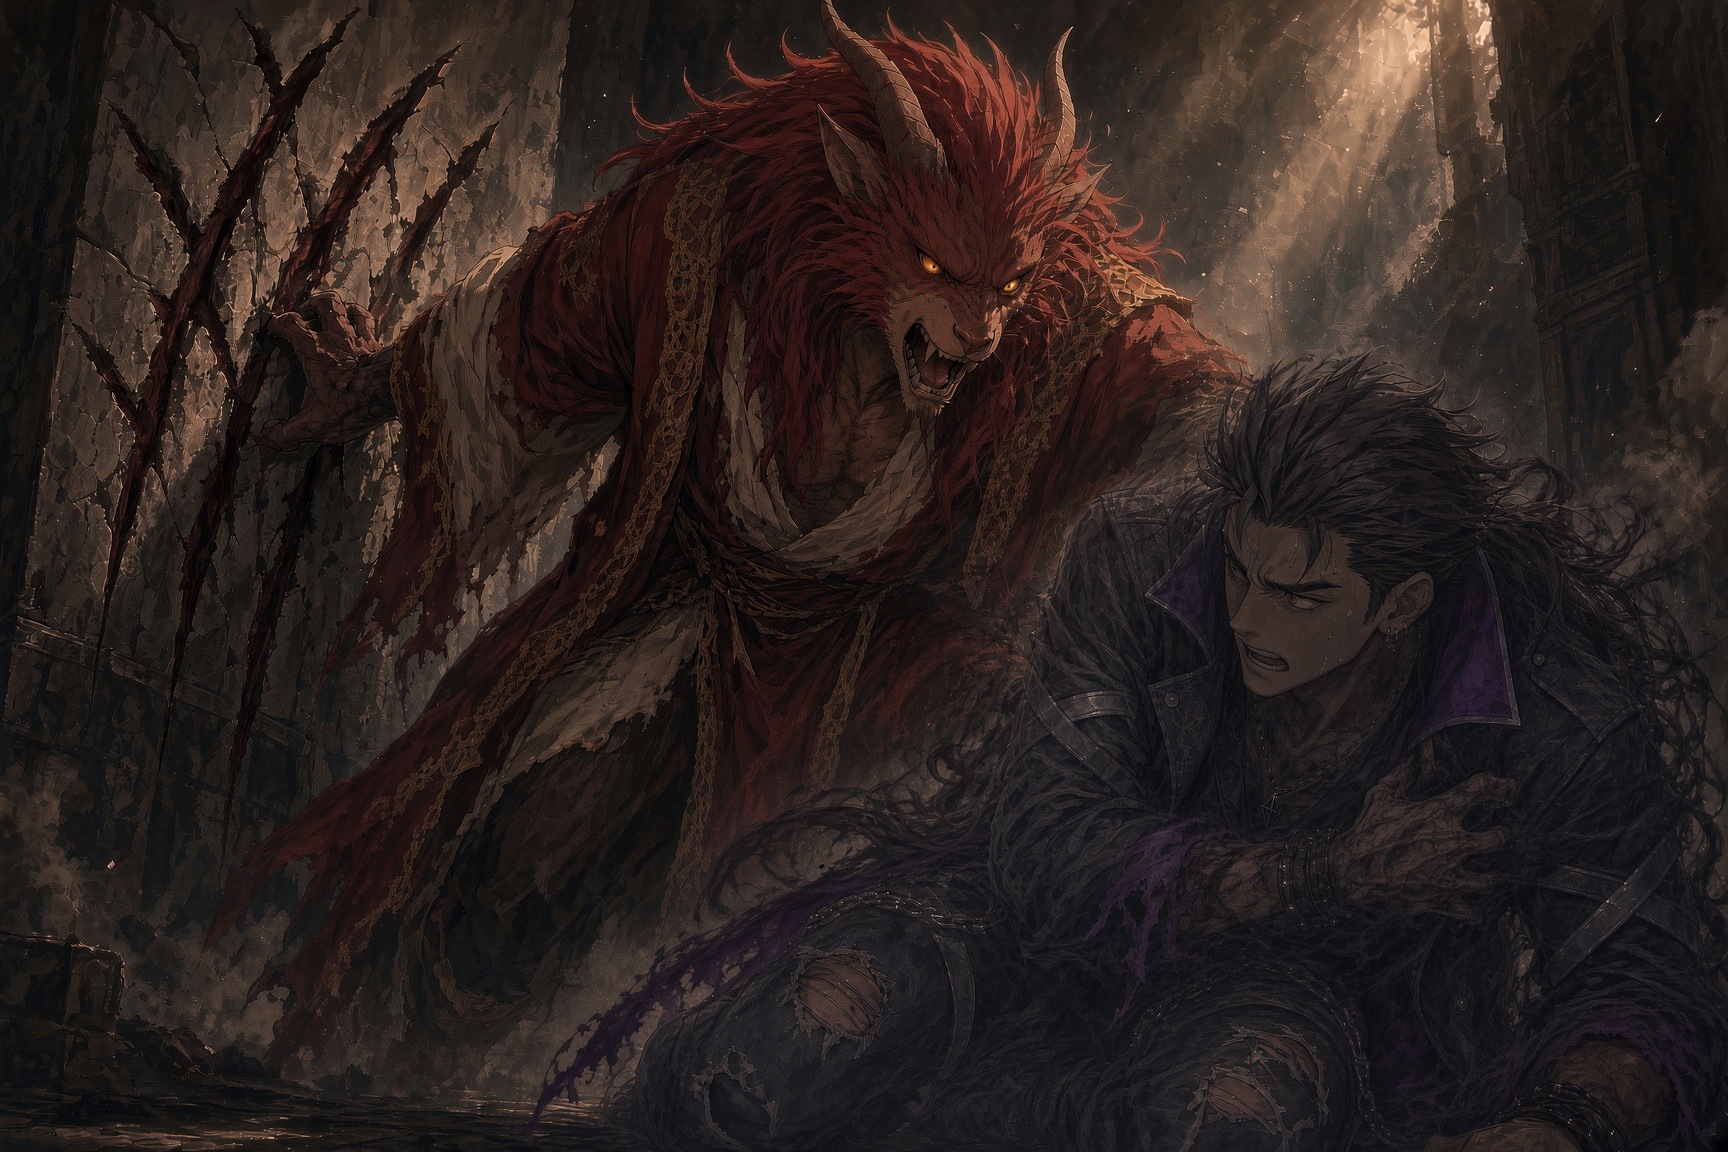
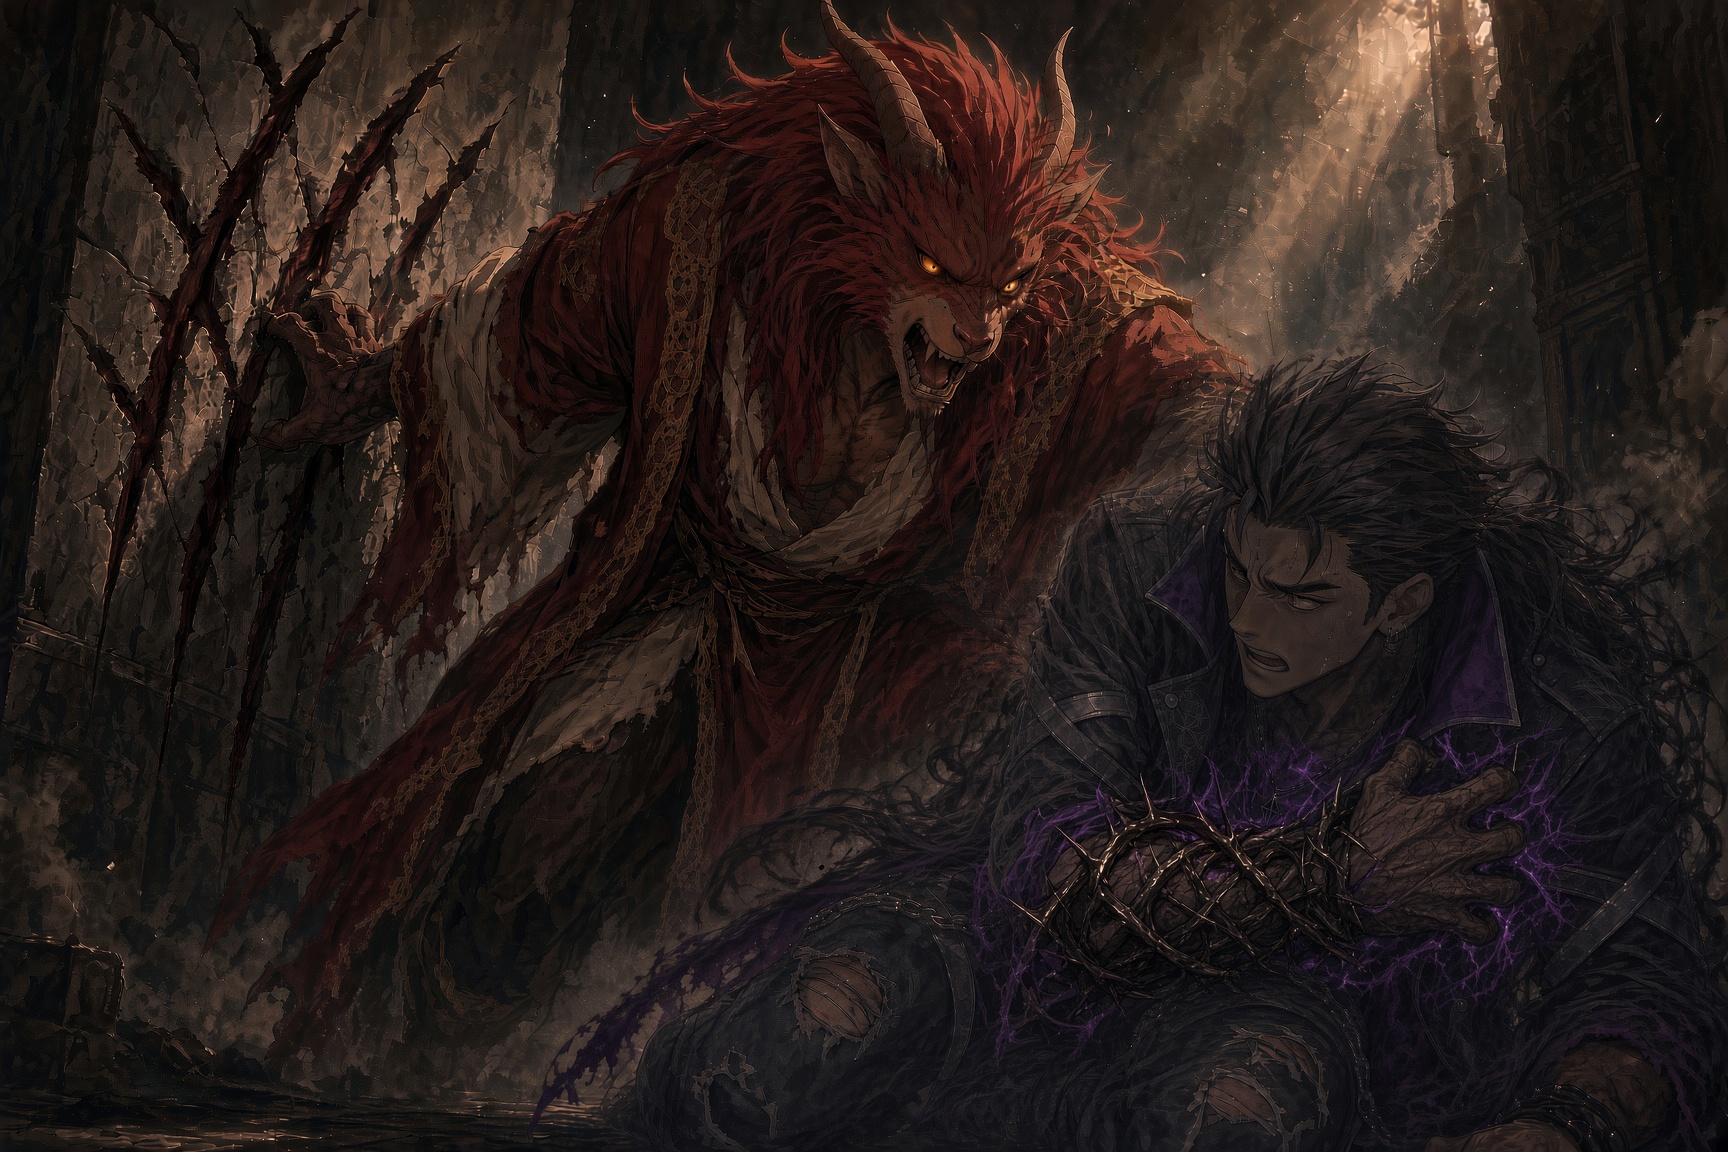
Dead Reckoning hero art: add Wren's thorn bracer
Claude-Session: https://claude.ai/code/session_01Kcbvc2ekQiedLQ67JeiXr6

diff --git a/chapters/dead-reckoning.html b/chapters/dead-reckoning.html
@@ -48,7 +48,7 @@
     </section>
 
     <div class="chapter-hero">
-      <img src="../assets/art/illustrations/dead-reckoning.jpg" alt="The red-maned, horned Beast lunges past four claw marks gouged in the stone wall while Wren, in his black and purple coat, sprawls on the floor clutching his shoulder" data-lightbox data-lightbox-src="../assets/art/illustrations/dead-reckoning.jpg" data-lightbox-caption="Dead Reckoning" data-lightbox-note="Chapter Nine illustration">
+      <img src="../assets/art/illustrations/dead-reckoning.jpg" alt="The red-maned, horned Beast lunges past four claw marks gouged in the stone wall while Wren, in his black and purple coat, sprawls on the floor clutching his shoulder with his thorn-bound arm" data-lightbox data-lightbox-src="../assets/art/illustrations/dead-reckoning.jpg" data-lightbox-caption="Dead Reckoning" data-lightbox-note="Chapter Nine illustration">
     </div>
 
     <section class="chapter-body card">

diff --git a/fiction.html b/fiction.html
@@ -186,7 +186,7 @@
         <a href="chapters/dead-reckoning.html">
           <div class="chapter-title">Dead Reckoning</div>
           <div class="chapter-art">
-            <img src="assets/art/illustrations/dead-reckoning.jpg" alt="The red-maned, horned Beast lunges past four claw marks gouged in the stone wall while Wren sprawls on the floor clutching his shoulder">
+            <img src="assets/art/illustrations/dead-reckoning.jpg" alt="The red-maned, horned Beast lunges past four claw marks gouged in the stone wall while Wren sprawls on the floor clutching his shoulder with his thorn-bound arm">
           </div>
           <div class="chapter-subtype">Chapter Nine</div>
           <div class="chapter-text">
